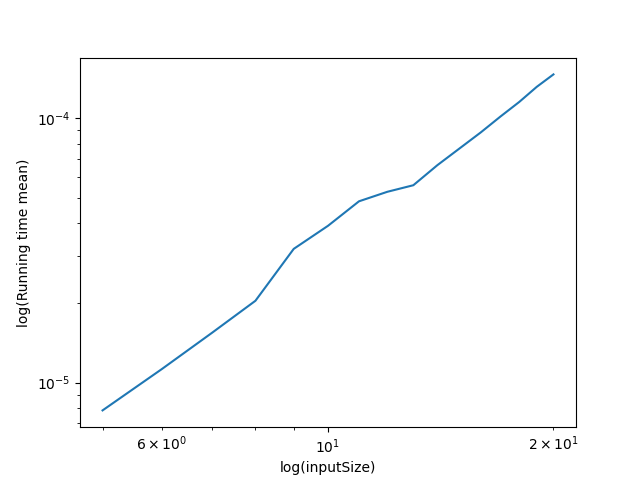
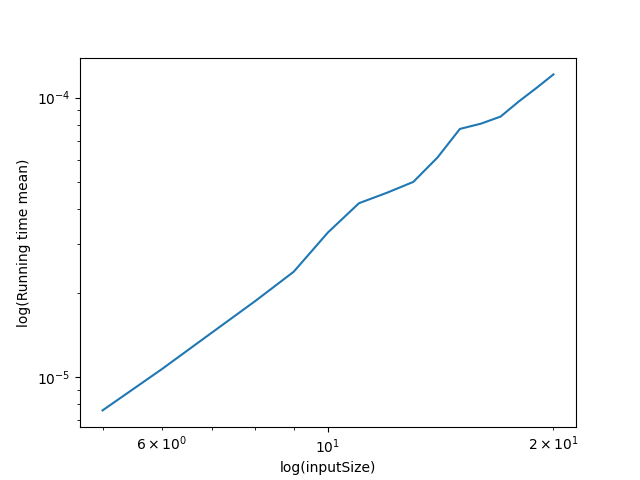
code changed

diff --git a/heuristic_imp.py b/heuristic_imp.py
@@ -4,45 +4,47 @@ import sys
 from brute_force_imp import vertex_cover_brute
 
 
-def get_adj(edges, u):
-    adj = []
+# def get_adj(edges, u):
+#     adj = []
+#     for edge in edges:
+#         if u == edge[0] and edge[1] not in adj:
+#             adj.append(edge[1])
+#         elif u == edge[1] and edge[0] not in adj:
+#             adj.append(edge[0])
+#     return adj
+
+
+# def vertex_cover_heuristic(edges, n_vertices, k):
+
+#     visited = (n_vertices+1)*[False]
+
+#     for u in range(1, n_vertices+1):
+#         if not visited[u]:
+#             for v in get_adj(edges, u):
+#                 if not visited[v]:
+#                     visited[u] = True
+#                     visited[v] = True
+#                     break
+#     cover = [v for v in range(1, n_vertices+1) if visited[v] == True]
+#     if len(cover) <= k:
+#         return [True, cover]
+#     else:
+#         return [False, cover]
+
+def remove(edges, u, v):
+    newEdges = []
     for edge in edges:
-        if u == edge[0] and edge[1] not in adj:
-            adj.append(edge[1])
-        elif u == edge[1] and edge[0] not in adj:
-            adj.append(edge[0])
-    return adj
+        if (u not in edge) and (v not in edge):
+            newEdges.append(edge)
+    return newEdges
 
 
-def vertex_cover_heuristic(edges, n_vertices, k):
-
-    visited = (n_vertices+1)*[False]
-
-    for u in range(1, n_vertices+1):
-        if not visited[u]:
-            for v in get_adj(edges, u):
-                if not visited[v]:
-                    visited[u] = True
-                    visited[v] = True
-                    break
-    cover = [v for v in range(1, n_vertices+1) if visited[v] == True]
-    if len(cover) <= k:
-        return [True, cover]
-    else:
-        return [False, cover]
-
-
-true = 0
-false = 0
-for i in range(20):
-    size = random.randint(1, 20)
-    min = random.randint(1, size)
-    graph = generator(size)
-    brute = vertex_cover_brute(graph, size, min)
-    heuristic = vertex_cover_heuristic(graph, size, min)
-    if heuristic[0] == brute[0]:
-        true += 1
-    else:
-        false += 1
-
-# print((true/20)*100)
+def vertex_cover_heuristic(edges):
+    vertexCover = []
+    UC = edges
+    while len(UC) > 0:
+        CE = UC[random.randint(0, len(UC)-1)]
+        vertexCover.append(CE[0])
+        vertexCover.append(CE[1])
+        UC = remove(UC, CE[0], CE[1])
+    return vertexCover

diff --git a/performance_test.py b/performance_test.py
@@ -7,38 +7,39 @@ import numpy as np
 import matplotlib.pyplot as plt
 
 
-def test(size, k):
+def test(size):
     start = time.time()
     graph = generator(size)
-    vertex_cover_heuristic(graph, size, k)
+    vertex_cover_heuristic(graph)
     end = time.time()
     return end-start
 
-# with confidence level 95% and N = 100000
 
-
-def exec(N, size, k):
+def exec(N, size):
     tests = []
     for i in range(N):
-        tests.append(test(size, k))
+        tests.append(test(size))
     # std = np.std(tests)
     mean = np.mean(tests)
     # sm = std/math.sqrt(N)
+    # t = 1.645
     return mean
-
 
 # graph for input sizes = [5,6,7,8,9,10]
 
 
+print(exec(100000, 10))
 inputSize = [5, 6, 7, 8, 9, 10, 11, 12, 13, 14, 15, 16, 17, 18, 19, 20]
 results = []
 for i in range(5, 21):
-    results.append(exec(100000, i, random.randint(1, i)))
+    results.append(exec(100000, i))
 
 
 xlog = np.log(inputSize)
 ylog = np.log(results)
+slope, intercept = np.polyfit(xlog, ylog, 1)
 plt.loglog(inputSize, results)
+print(slope)
 # plt.scatter(inputSize, results)
 plt.xlabel("log(inputSize)")
 plt.ylabel("log(Running time mean)")
